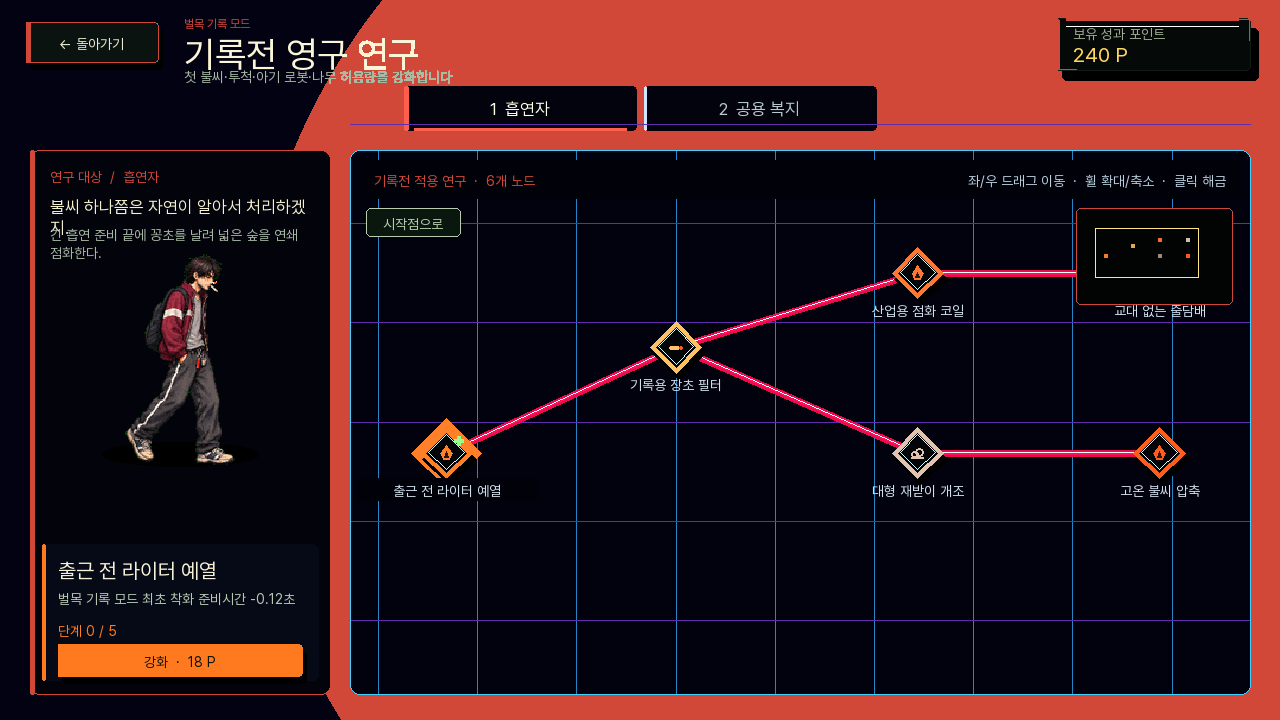
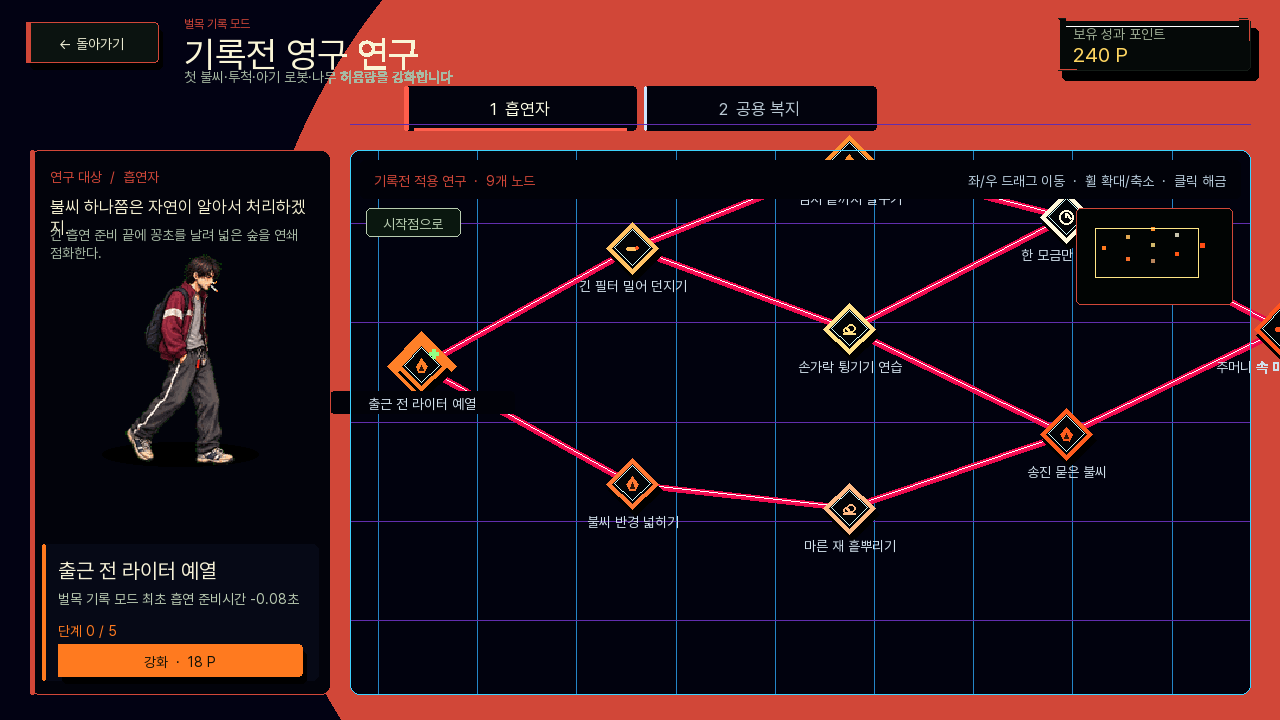
feat: split smoker progression into granular traits

diff --git a/docs/character_dossier.html b/docs/character_dossier.html
@@ -512,12 +512,15 @@ const TRAITS = {
       {id:"fire_press",name:"언론 대응 매뉴얼",short:"원인 부인",desc:"성과 포인트 +9%",max:3,costs:[36,62,94],requires:[["fire_resin",2]]},
       {id:"fire_claim",name:"실화 책임 전면 부인",short:"책임 없음",desc:"성과 포인트 +14%",max:1,costs:[135],requires:[["fire_emberstorm",2],["fire_press",2]],capstone:true},
       {id:"fire_redsky",name:"하늘이 붉은 건 노을",short:"최종 산불",desc:"착화 범위 +42",max:1,costs:[190],requires:[["fire_claim",1]],capstone:true},
-      {id:"fire_score_prewarm",name:"출근 전 라이터 예열",short:"첫 불씨 단축",desc:"벌목 기록 모드 최초 착화 준비시간 -0.12초",max:5,costs:[18,32,50,74,104]},
-      {id:"fire_score_filter",name:"꽁초 투척 영구 개조",short:"기본 무기 성장",desc:"다음 벌목 기록부터 꽁초 투척이 이 레벨로 시작합니다.",max:6,costs:[18,32,50,74,104,142],requires:[["fire_score_prewarm",1]]},
-      {id:"fire_score_lighter",name:"건조주의보 무시 영구 개조",short:"확산 성장",desc:"다음 벌목 기록부터 건조주의보 무시가 이 레벨로 시작합니다.",max:6,costs:[18,32,50,74,104,142],requires:[["fire_score_filter",1]]},
-      {id:"fire_score_ash",name:"마른 건초더미 영구 개조",short:"건초 성장",desc:"다음 벌목 기록부터 마른 건초더미가 이 레벨로 시작합니다.",max:6,costs:[18,32,50,74,104,142],requires:[["fire_score_filter",1]]},
-      {id:"fire_score_drag",name:"도넛 강화 영구 개조",short:"도넛 성장",desc:"다음 벌목 기록부터 도넛 강화가 이 레벨로 시작합니다.",max:6,costs:[18,32,50,74,104,142],requires:[["fire_score_lighter",2]]},
-      {id:"fire_score_heat",name:"라이터 기름 유출 영구 개조",short:"기름 성장",desc:"다음 벌목 기록부터 라이터 기름 유출이 이 레벨로 시작합니다.",max:6,costs:[18,32,50,74,104,142],requires:[["fire_score_ash",2]]},
+      {id:"fire_score_prewarm",name:"출근 전 라이터 예열",short:"첫 불씨 단축",desc:"벌목 기록 모드 최초 흡연 준비시간 -0.08초",max:5,costs:[18,32,50,74,104]},
+      {id:"fire_score_filter",name:"긴 필터 밀어 던지기",short:"투척 거리",desc:"꽁초 투척 사거리 +16",max:6,costs:[18,32,50,74,104,142],requires:[["fire_score_prewarm",1]]},
+      {id:"fire_score_lighter",name:"불씨 반경 넓히기",short:"착화 범위",desc:"꽁초가 불씨를 옮기는 착화 반경 +12",max:6,costs:[18,32,50,74,104,142],requires:[["fire_score_prewarm",1]]},
+      {id:"fire_score_spark",name:"심지 끝까지 달구기",short:"착화 확률",desc:"꽁초의 착화 성공 확률 +1.2%p",max:5,costs:[18,32,50,74,104],requires:[["fire_score_filter",2]]},
+      {id:"fire_score_launch",name:"손가락 튕기기 연습",short:"비행 속도",desc:"꽁초 비행 속도 +7%",max:5,costs:[18,32,50,74,104],requires:[["fire_score_filter",1]]},
+      {id:"fire_score_ash",name:"마른 재 흩뿌리기",short:"확산 확률",desc:"불붙은 나무의 주변 확산 확률 +3%p",max:6,costs:[18,32,50,74,104,142],requires:[["fire_score_lighter",2]]},
+      {id:"fire_score_drag",name:"한 모금만 피우기",short:"흡연 속도",desc:"흡연·재장전 속도 +4%",max:6,costs:[18,32,50,74,104,142],requires:[["fire_score_spark",2],["fire_score_launch",2]]},
+      {id:"fire_score_heat",name:"송진 묻은 불씨",short:"연소 속도",desc:"불붙은 나무의 연소 속도 +6%",max:6,costs:[18,32,50,74,104,142],requires:[["fire_score_launch",2],["fire_score_ash",2]]},
+      {id:"fire_score_stock",name:"주머니 속 마지막 한 개비",short:"추가 꽁초",desc:"투척할 때 추가 꽁초 +1",max:1,costs:[180],requires:[["fire_score_drag",3],["fire_score_heat",3]],capstone:true},
     ]
   },
   toxic: {
@@ -826,7 +829,7 @@ const FUSIONS = {
 const ORDER = ["physical","fire","toxic","developer","miner","philosopher","universal"];
 const MODE_META = {
   traits: { label: "로비 특성", sub: "영구 · 성과 포인트 구매", masthead: "직업별 전용 특성 6종 + 전 직군 공용 복지 특성 — LAST HAUL 벌목지 연구망 전체 목록", stamp: "성과 포인트 결재 완료", data: TRAITS },
-  skills: { label: "스킬·운영", sub: "전투 영구 · 운영 런 중", masthead: "흡연자 전투 카드는 영구 연구 · 목재 경험치 드래프트는 비전투 운영 카드 6종 — 보존된 전체 스킬 목록", stamp: "영구 전투 + 런 운영", data: SKILLS },
+  skills: { label: "스킬·운영", sub: "세부 특성 영구 · 운영 런 중", masthead: "흡연자는 세부 전투 특성을 영구 연구 · 목재 경험치 드래프트는 비전투 운영 카드 6종 — 보존된 전체 스킬 목록", stamp: "영구 특성 + 런 운영", data: SKILLS },
 };
 
 let mode = "skills";
@@ -1001,7 +1004,7 @@ function renderAll() {
   document.getElementById("masthead-stamp").textContent = MODE_META[mode].stamp;
   document.getElementById("footer").textContent = mode === "traits"
     ? "src/character_traits.lua 기준 · 노드 순서는 선행 조건 깊이(단계) 순"
-    : "src/clearcut_mode.lua + score_operations.lua + character_traits.lua 기준 · 현재 로비는 흡연자 벌목 기록 모드만 활성화 · 저장된 재생 단계에서 6그루로 시작하고 0그루 달성 시 다음 단계가 즉시 영구 해금 · 재생 속도 0.14×1.45^(단계-1), HP 1.08^(단계-1) · 목재 경험치 드래프트에는 아기 로봇·탐지 안테나·작업장 확장·조림 구획·목재 선별기·안전 관리 장치만 등장 · 기존 흡연자 전투 카드 5종은 로비 영구 연구 레벨로 다음 런에 적용 · 일반 작전·공용 전투 스킬·융합·시너지 코드는 삭제 없이 비활성 보존";
+    : "src/clearcut_mode.lua + score_operations.lua + character_traits.lua 기준 · 현재 로비는 흡연자 벌목 기록 모드만 활성화 · 저장된 재생 단계에서 6그루로 시작하고 0그루 달성 시 다음 단계가 즉시 영구 해금 · 재생 속도 0.14×1.45^(단계-1), HP 1.08^(단계-1) · 목재 경험치 드래프트에는 아기 로봇·탐지 안테나·작업장 확장·조림 구획·목재 선별기·안전 관리 장치만 등장 · 로비 영구 성장은 스킬 레벨을 지급하지 않고 투척 거리·착화 반경·착화/확산 확률·흡연/비행/연소 속도·추가 꽁초 특성으로 분리 · 일반 작전·공용 전투 스킬·융합·시너지 코드는 삭제 없이 비활성 보존";
   buildModeSwitch();
   buildTabs();
   renderPanel(document.getElementById("search").value);

diff --git a/docs/SCORE_ATTACK_META_LOOP.md b/docs/SCORE_ATTACK_META_LOOP.md
@@ -8,7 +8,7 @@
 2. 직접 착화하고, 목재 경험치가 찰 때마다 비전투 운영 카드 3개 중 하나를 고른다.
 3. 산림 공급은 저장된 영구 재생 단계에서 시작한다. 현재 나무를 0그루로 만들면 다음 단계가 즉시 저장되고, 다음 판도 그 단계에서 시작한다.
 4. 재생 속도는 `0.14 × 1.45^(단계-1)`, 나무 HP는 `1.08^(단계-1)`로 올라간다. 시간과 최근 벌목량 추적 보정은 기록 모드에서 사용하지 않는다.
-5. 목재 경험치는 비전투 운영 카드 3택만 열며, 기존 흡연자 전투 카드는 로비 영구 연구로 성장한다.
+5. 목재 경험치는 비전투 운영 카드 3택만 열며, 로비에서는 흡연자의 세부 전투 특성을 성장시킨다.
 6. 활성 나무가 허용량에 닿으면 즉시 종료한다.
 7. 버틴 시간, 총 벌목, 최고 재생 단계와 운영 레벨을 정산한다.
 8. 영구 전투 연구를 구매하고 저장된 재생 단계에서 다음 작업을 시작한다.
@@ -28,14 +28,14 @@ flowchart LR
 | 성장 | 유지 범위 | 역할 |
 |---|---|---|
 | 목재 경험치 | 현재 런 | 회수·조림·허용량·안전관리 운영 카드 |
-| 성과 포인트 연구 | 런 사이 | 기존 흡연자 전투 카드 레벨과 나무 허용량 |
+| 성과 포인트 특성 | 런 사이 | 투척·착화·확산·연소 세부 수치와 나무 허용량 |
 | 재생 단계 | 영구 | 다음 런의 시작 공급 속도와 나무 HP |
 
 한 그루의 목재는 현재 런 경험치에 들어가면서 실제 벌목량으로도 기록된다. 런 중 별도 자동화 설비를 구매하거나 `Z/X/C/V`로 소비하지 않는다. 업적 포인트는 업적 전용 재화로 분리한다.
 
 ## 선택 구조
 
-전투 성능은 로비에서 꽁초 투척·착화 확산·건초·폐유·도넛을 영구 연구한다. 런에서는 아기 로봇, 탐지 안테나, 작업장 확장, 조림 구획, 목재 선별기, 안전 관리 장치만 선택한다. 공격력·범위·쿨타임 카드는 기록 모드 목재 드래프트에 나오지 않는다.
+전투 성능은 로비에서 투척 거리·착화 반경·착화/확산 확률·흡연/비행/연소 속도처럼 작은 특성을 갈래별로 구매한다. 특정 인게임 스킬 레벨을 영구 연구 하나로 통째로 지급하지 않는다. 런에서는 아기 로봇, 탐지 안테나, 작업장 확장, 조림 구획, 목재 선별기, 안전 관리 장치만 선택한다. 공격력·범위·쿨타임 카드는 기록 모드 목재 드래프트에 나오지 않는다.
 
 영구 연구는 현재 재생 단계의 화력 벽을 넘기고, 매 판 초기화되는 운영 카드는 그 화력에 목재 회수·공급 위치·과밀 여유를 맞춘다. 같은 영구 전투 상태라도 어떤 운영 설비를 먼저 확보했는지에 따라 런의 동선과 안정성이 달라진다.
 

diff --git a/docs/SMOKER_SCORE_ATTACK_MODE.md b/docs/SMOKER_SCORE_ATTACK_MODE.md
@@ -38,7 +38,7 @@
 | 운영 카드 | 런 중 효과 |
 |---|---|
 | 아기 운반 로봇 | 떨어진 목재를 즉시 경험치로 회수하고 강화 시 수와 기동력이 증가 |
-| 목재 탐지 안테나 | 로봇 탐색 반경 단계당 35%, 이동속도 단계당 18% 증가 |
+| 목재 탐지 안테나 | 맵 전체 탐지는 기본 적용, 이동속도 단계당 18% 증가 |
 | 작업장 확장 | 이번 런의 나무 허용량 단계당 +1 |
 | 조림 구획 지정 | 가장자리 생성을 줄이고 작업자 주변 생성 비중 증가 |
 | 목재 선별기 | 목재 경험치 단계당 +15% |
@@ -46,19 +46,19 @@
 
 모든 운영 카드는 최대 3레벨이며 다음 런에는 초기화된다. 리롤, 배니시, 아르카나, 융합은 이 운영 드래프트에서 의도적으로 비활성화한다. 일반 작전의 기존 카드·융합·시너지 코드는 삭제하지 않는다.
 
-## 영구 전투 연구
+## 영구 전투 특성
 
-기존 기록 모드 전투 카드 5종은 목재 경험치 드래프트에서 빠지고 로비 영구 연구로 이동한다.
+로비에서는 인게임 스킬 레벨을 미리 사지 않는다. 성과 포인트로 흡연자의 동작을 작은 특성으로 나눠 구매한다.
 
-| 영구 연구 | 다음 런 시작 상태 |
+| 갈래 | 개별 특성 |
 |---|---|
-| 꽁초 투척 영구 개조 | `molotov` 연구 레벨로 시작 |
-| 건조주의보 무시 영구 개조 | `dry_forest` 연구 레벨로 시작 |
-| 라이터 기름 유출 영구 개조 | `oil_drum` 연구 레벨로 시작 |
-| 마른 건초더미 영구 개조 | `straw_bale` 연구 레벨로 시작 |
-| 도넛 강화 영구 개조 | `smoke_ring` 연구 레벨로 시작 |
+| 투척 | 사거리, 꽁초 비행 속도 |
+| 착화 | 불씨 전이 반경, 꽁초 착화 확률 |
+| 확산 | 불붙은 나무의 주변 확산 확률, 연소 속도 |
+| 조작 | 최초 흡연 준비시간, 흡연·재장전 속도 |
+| 최종 | 투척 시 추가 꽁초 1개 |
 
-각 연구는 6레벨까지 구매할 수 있다. 기존 구매 저장 키는 유지해 이전 저장 파일과 호환한다. 꽁초 투척이 3레벨 이상인데 별도 경로 저장이 없는 기존 프로필은 화염 농축 경로를 기본값으로 사용한다.
+기존 `fire_score_filter/lighter/ash/drag/heat` 저장 키는 새 세부 특성에 그대로 대응시켜 이미 구매한 레벨과 사용한 성과 포인트를 잃지 않는다. 새 착화 확률·비행 속도·추가 꽁초 노드는 0레벨부터 시작한다. `molotov`, `dry_forest`, `straw_bale`, `smoke_ring`, `oil_drum` 레벨은 영구 특성이 직접 지급하지 않는다.
 
 ### 꽁초 착화 피드백
 

diff --git a/docs/ACTIVE_DEVELOPMENT_MODE.md b/docs/ACTIVE_DEVELOPMENT_MODE.md
@@ -11,7 +11,7 @@
 - 첫 45초에는 몬스터가 없고 이후에도 동시 개체 수를 제한한다.
 - 나무에서 얻은 목재가 경험치가 되며, 레벨업마다 비전투 운영 카드 3개 중 하나를 고른다.
 - 운영 카드 풀은 아기 로봇·탐지 안테나·작업장 확장·조림 구획·목재 선별기·안전 관리 장치다.
-- 기존 흡연자 전투 카드 5종은 로비 영구 연구로 이동하며 다음 런 시작 레벨에 적용된다.
+- 로비 영구 연구는 인게임 스킬 레벨을 지급하지 않는다. 투척 거리·착화 범위·착화/확산 확률·흡연/비행/연소 속도·추가 꽁초를 개별 특성으로 구매한다.
 - 메타 진행은 `작업 → 정산 → 기록전 영구 연구 → 즉시 다음 작업`으로 연결한다. 상세 기준은 `docs/SCORE_ATTACK_META_LOOP.md`다.
 
 ## 의도적으로 비활성화한 범위
